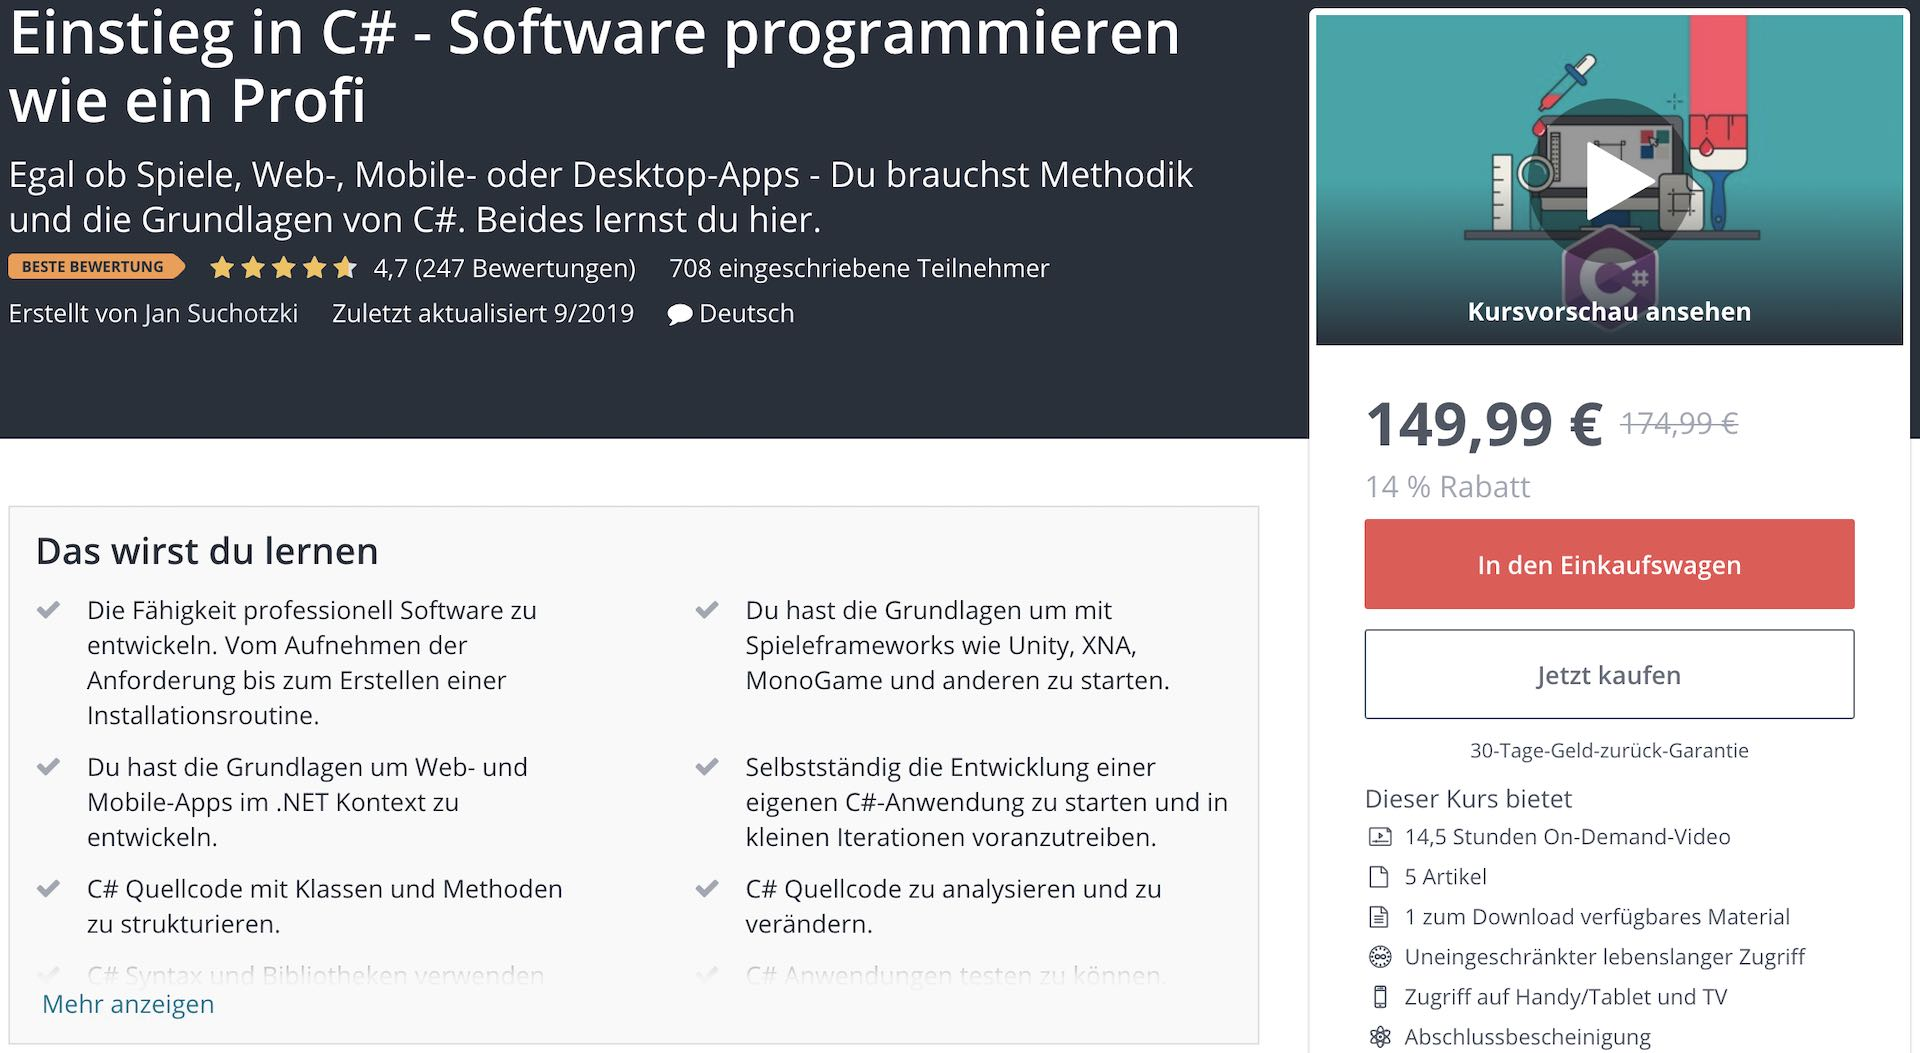
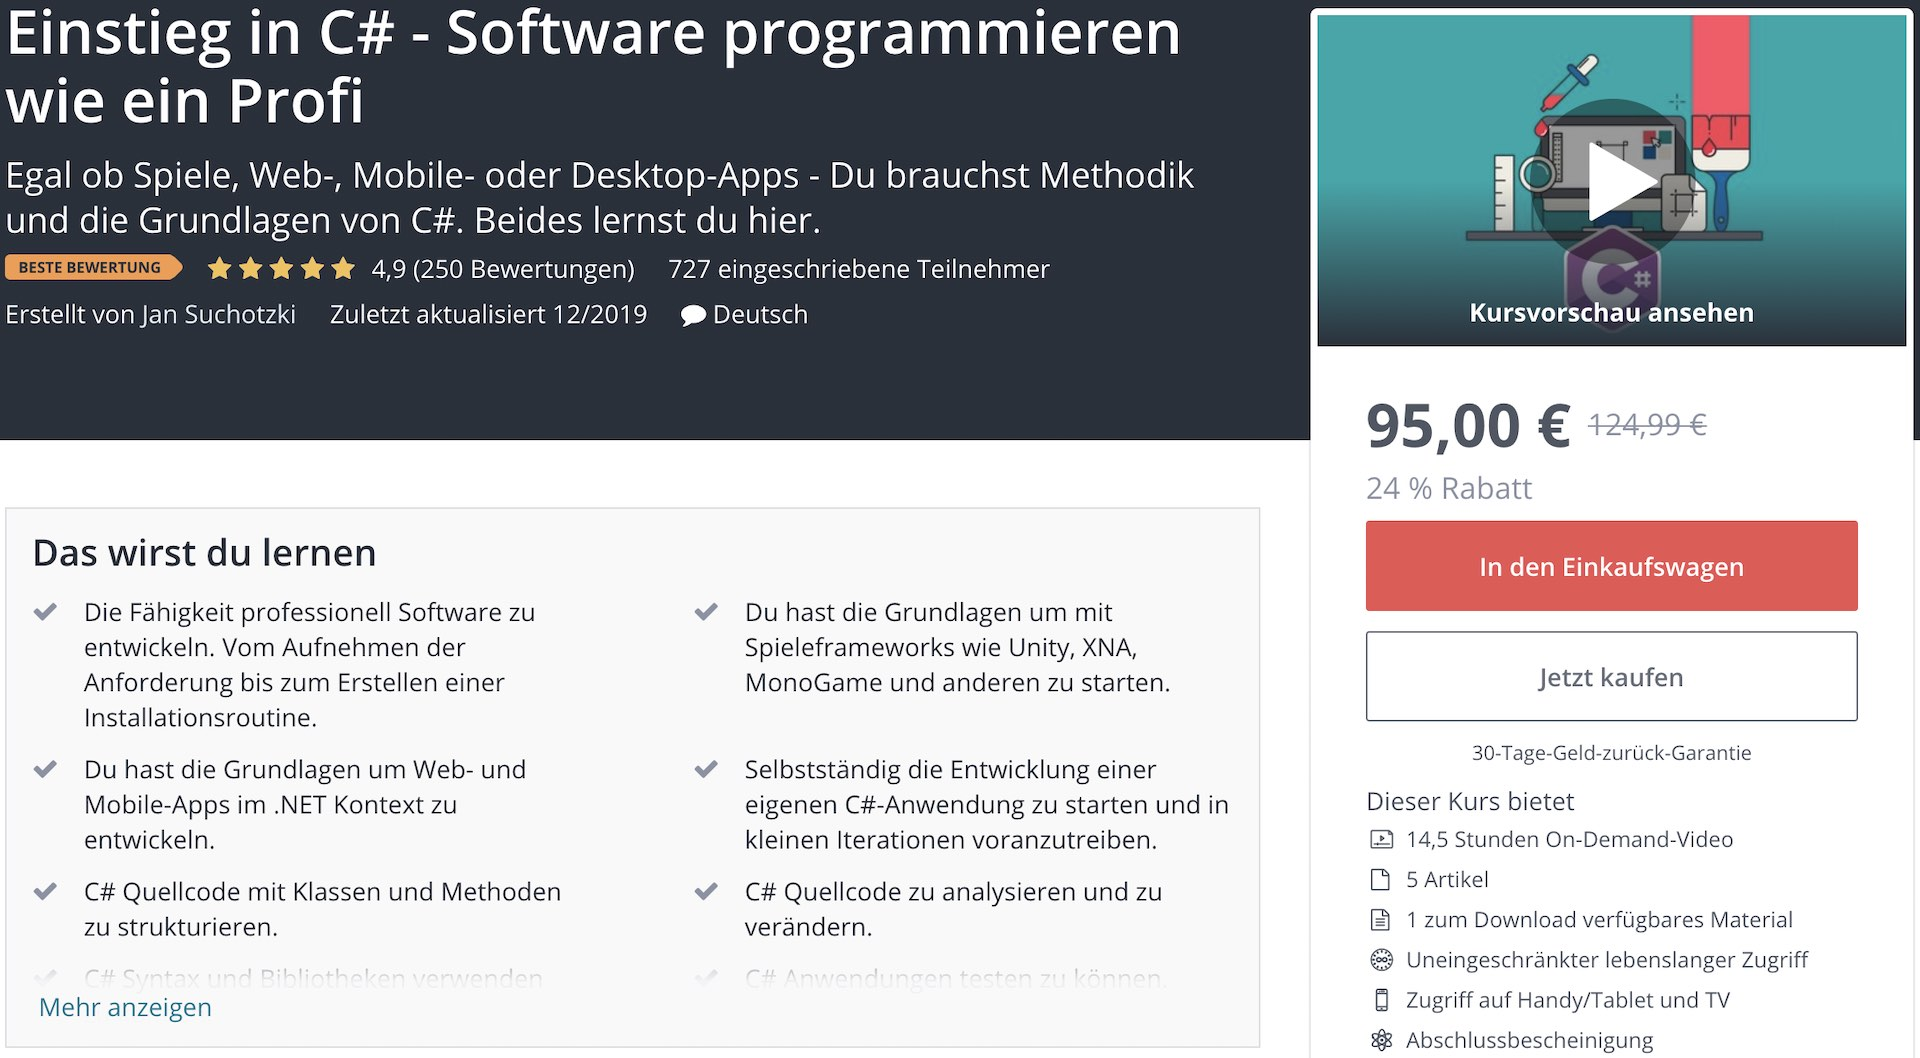
Verwendet wieder einen Rabatt für UCsK

diff --git a/einstieg-csharp/index.md b/einstieg-csharp/index.md
@@ -12,14 +12,14 @@ date: 2016-02-03T09:30:00+01:00
 
 <div class="subscribe-notice">
 <h5>Hast du noch Fragen?</h5>
-<a markdown="0" href="https://www.udemy.com/course/einstieg-in-csharp-software-programmieren-wie-ein-profi/?referralCode=73784B79162D93219DEC" class="notice-button">Nö! Ich will sofort C# lernen >></a>
+<a markdown="0" href="https://www.udemy.com/course/einstieg-in-csharp-software-programmieren-wie-ein-profi/?couponCode=CS_100-0120_EXISTING" class="notice-button">Nö! Ich will sofort C# lernen >></a>
 </div>
 
 Mit diesem Kurs hast du in 30 Minuten deine erste C#-Anwendung entwickelt. Viel wichtiger ist jedoch, dass du nicht nur Programmieren lernst, sondern die Arbeitsweise, die professionelle Softwareentwickler verwenden, um herausragende Anwendungen zu entwickeln. Ich verdiene seit über 13 Jahren mit Softwareentwicklung mein Geld und erkläre dir in diesem Kurs anhand vieler Beispiele, Übungen und direktem Feedback die wichtigsten Aspekte der professionellen Softwareentwicklung.
 
-Alles Wissenswerte zum Kurs bekommst du, wenn du auf [diesen Link](https://www.udemy.com/course/einstieg-in-csharp-software-programmieren-wie-ein-profi/?referralCode=73784B79162D93219DEC) oder das folgende Bild klickst.
+Alles Wissenswerte zum Kurs bekommst du, wenn du auf [diesen Link](https://www.udemy.com/course/einstieg-in-csharp-software-programmieren-wie-ein-profi/?couponCode=CS_100-0120_EXISTING) oder das folgende Bild klickst.
 <figure>
-	<a href="https://www.udemy.com/course/einstieg-in-csharp-software-programmieren-wie-ein-profi/?referralCode=73784B79162D93219DEC" target="_blank"><img src="/images/UCsK-LandingPage-Rabatt.jpg" alt="image"></a>
+	<a href="https://www.udemy.com/course/einstieg-in-csharp-software-programmieren-wie-ein-profi/?couponCode=CS_100-0120_EXISTING" target="_blank"><img src="/images/UCsK-LandingPage-Rabatt.jpg" alt="image"></a>
 </figure>
 
 ## Details und weitere Ressourcen zum Kurs
